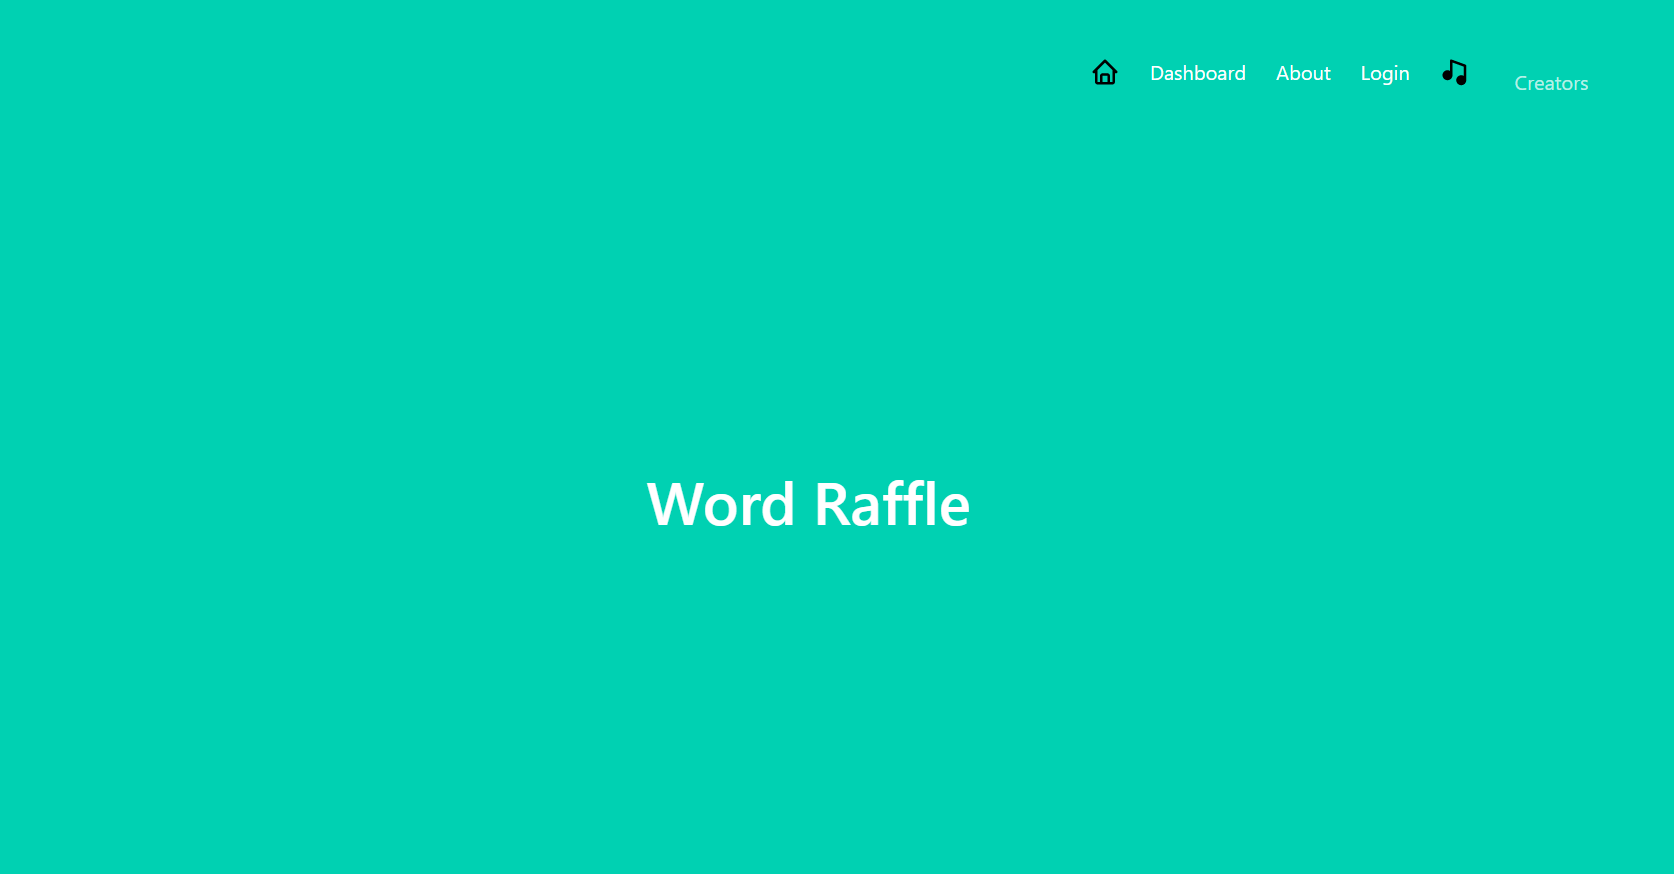
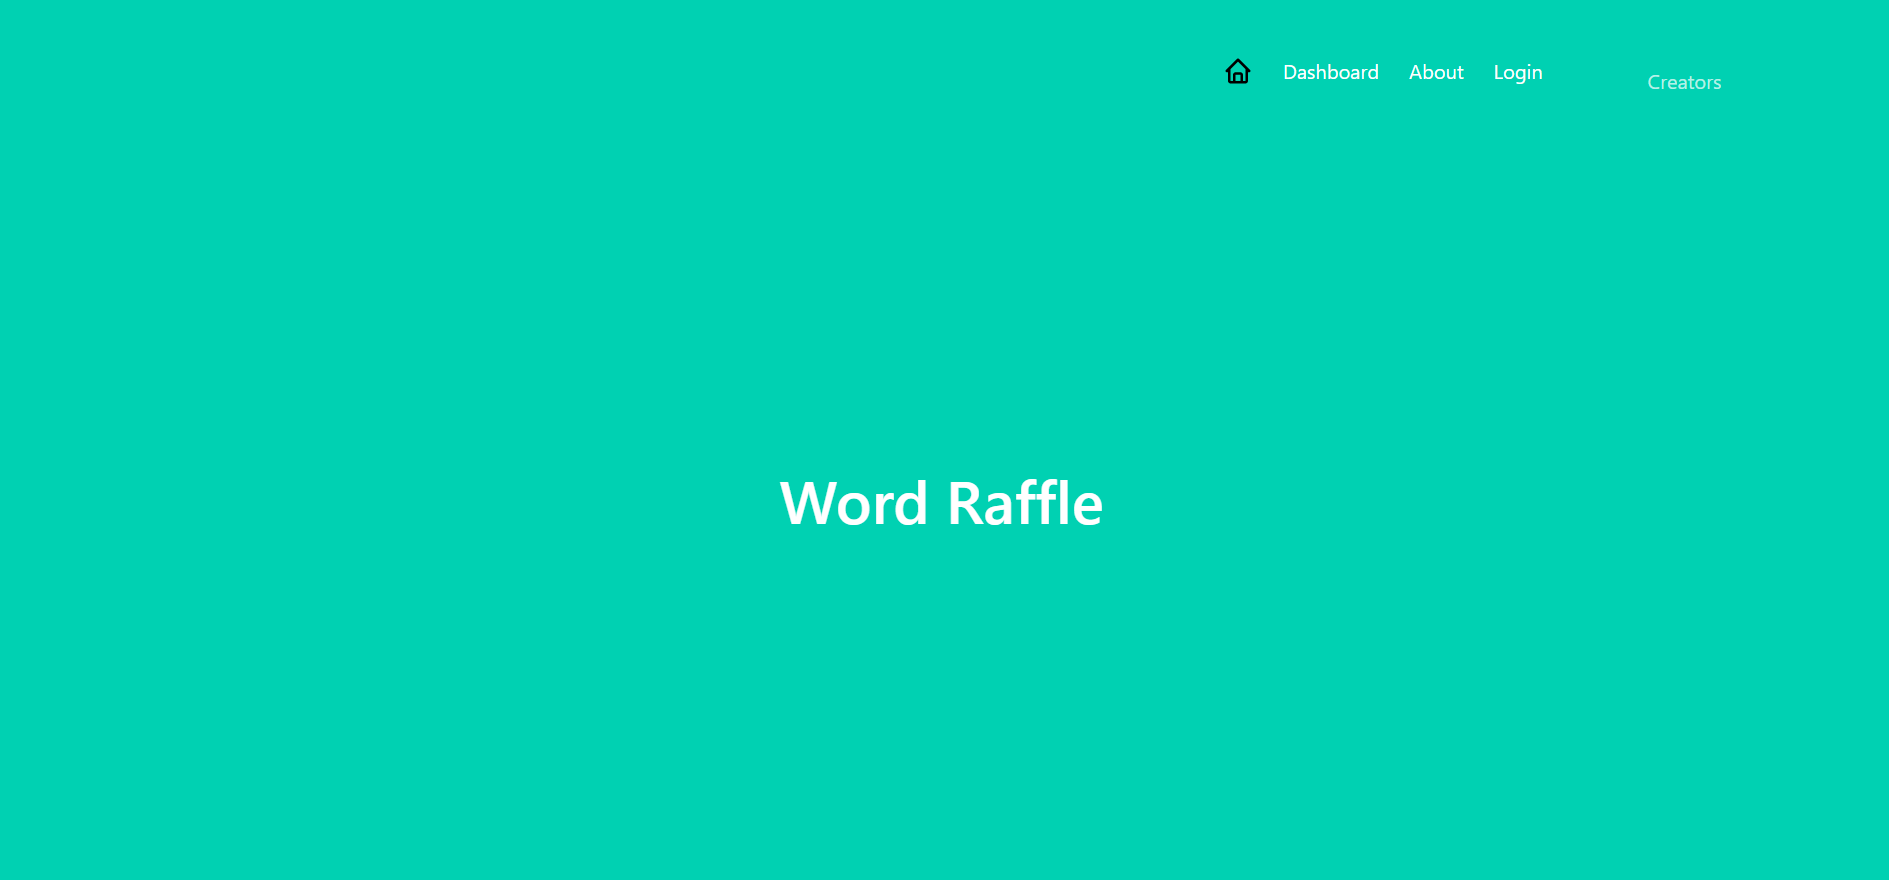
tried several different css options

Changed region(s): [[0.3728, 0.5252, 0.5902, 0.6178], [0.6523, 0.0618, 0.963, 0.1236]]

diff --git a/src/components/ProjectList/index.js b/src/components/ProjectList/index.js
@@ -1,50 +1,42 @@
-import React, { useState } from 'react';
+import React from 'react';
 import './projectList.css'
 
-const ProjectList = ({ category }) => {
-
-  // const [currentPhoto, setCurrentPhoto] = useState();
-
-  const projects = [
-    {
-      name: "Word Raffle",
-      link: 'https://calm-plains-32572.herokuapp.com/',
-      src: '/images/wordraffle.png'
-    },
-    {
-      name: "The Quiz Wize",
-      link: 'https://mackenzieabe.github.io/TheQuizWiz/',
-      src: '/images/quizwiz screenshot1.png'
-    },
-    // {
-    //     name: <a href='https://mackenzieabe.github.io/TheQuizWiz/'>The Quiz Wiz</a>
-    // },
-    // {
-    //     name: <a href='https://mackenzieabe.github.io/DoorsofDurin/'>Doors of Durin</a>
-    // },
-    // {
-    //     name: <a href='https://konopie.github.io/cat-generator/'> Cat Genie </a>
-    // }
-  ]
-
-  // const currentPhotos = photos.filter(photo => photo.category === category);
+const ProjectList = ({ cateogry }) => {
 
   return (
-    <div>
-      <div className="flex-row">
-        {projects.map((image, i) => (
-          <div key={image.name}>
-            <h1>{image.name}</h1>
-            <a href={image.link}><img
-              src={image.src}
-              alt={image.name}
-              className="img-thumbnail mx-1"
-            /></a>
-          </div>
-        ))}
+    <div className="row">
+      <div className="col-md-6 m-4">
+        <div className="thumbnail">
+          <a href="https://calm-plains-32572.herokuapp.com/">
+            <img src="/images/wordraffle.png" alt="wordraffle screenshot" style={{ width: "65%" }}></img>
+
+          </a>
+        </div>
+      </div>
+      <div className="col-md-6 m-4">
+        <div className="thumbnail">
+          <a href="https://mackenzieabe.github.io/TheQuizWiz/">
+            <img src="/images/quizwiz.png" alt="quizqiz screenshot" style={{ width: "65%" }}></img>
+
+          </a>
+        </div>
+      </div>
+      <div className="col-md-6 m-4">
+        <div className="thumbnail">
+          <a href="https://konopie.github.io/cat-generator/">
+            <img src="/images/catgenie.png" alt="cat genie screenshot" style={{ width: "65%" }}></img>
+          </a>
+        </div>
+      </div>
+      <div className="col-md-6 m-4">
+        <div className="thumbnail">
+          <a href="https://mackenzieabe.github.io/DoorsofDurin/">
+            <img src="/images/doorsofdurin.png" alt="doors of durin screenshot" style={{ width: "65%" }}></img>
+          </a>
+        </div>
       </div>
     </div>
-  );
-};
+  )
+}
 
 export default ProjectList;

diff --git a/src/components/About/index.js b/src/components/About/index.js
@@ -6,18 +6,25 @@ function About() {
     return (
 
         <section className="container-fluid my-5" >
-            {/* <h2 id="about" className="">About Me</h2> */}
+          
+            
             <div class="row">
-                <div class="col-lg-3">
-                    <img src='/images/mymug.JPG' className="my-2 rounded" style={{ width: "70%" }} alt="my face" />
-                </div>
-                <div id="about-me" className="col-lg-4 text-center font-weight-bold">
+                <div id="about-me" className="col text-center font-weight-bold">
                     <p>
-                        Hi! I'm Mackenzie, a web developer based out of Charlotte, NC. I love to learn, create and problem-solve. My interests include reading, gardening, animals and making things.</p>
+                        Hi! I'm Mackenzie, a web developer based out of Charlotte, NC. I love to learn, create and problem-solve.
+                        <br>
+                        </br>
+                        My interests include reading, gardening, animals and making things.</p>
                     <p>
+                        <br>
+                        </br>
                         You can reach me at mackenzieabe@gmail.com. Let's connect!
                     </p>
                 </div>
+                <div class="col-3">
+                    <img src='/images/mymug.JPG' id="myface" className="m-6 rounded" style={{ width: "80%" }} alt="my face" />
+                </div>
+
             </div>
         </section>
     )

diff --git a/src/components/ProjectList/projectList.css b/src/components/ProjectList/projectList.css
@@ -1,4 +1,40 @@
-.img-thumbnail {
-    width: 80%;
-    max-width: 600px;
-}
+/* body {
+    margin: 0;
+  }
+  
+  .image-grid {
+    --gap: 16px;
+    --num-cols: 4;
+    --row-height: 300px;
+  
+    box-sizing: border-box;
+    padding: var(--gap);
+  
+    display: grid;
+    grid-template-columns: repeat(var(--num-cols), 1fr);
+    grid-auto-rows: var(--row-height);
+    gap: var(--gap);
+  }
+  
+  .image-grid > img {
+    width: 100%;
+    height: 100%;
+    object-fit: cover;
+  }
+  
+  .image-grid-col-2 {
+    grid-column: span 2;
+  }
+  
+  .image-grid-row-2 {
+    grid-row: span 2;
+  }
+  
+  /* Anything udner 1024px */
+  /* @media screen and (max-width: 1024px) {
+    .image-grid {
+      --num-cols: 2;
+      --row-height: 200px;
+    }
+  }
+    */

diff --git a/src/index.css b/src/index.css
@@ -4,8 +4,7 @@ body {
   -webkit-font-smoothing: antialiased;
   -moz-osx-font-smoothing: grayscale;
   background-image: url('../public/images/background.jpg'); filter:blur(.5px);
-  
-}
+  }
 
 .row {
   padding: 40px;
@@ -31,6 +30,8 @@ code {
   font-family:'Cormorant Garamond', serif;
   color: black;
   font-weight: bold;
+  margin: 0% 20%;
+  
 }
 .navbar .navbar-nav .nav-item::after {
   position: absolute;
@@ -46,3 +47,15 @@ code {
   width: 100%;
 } 
 
+#images{
+  opacity: 1;
+  display: block;
+  width: 100%;
+  height: auto;
+  transition: .5s ease;
+  backface-visibility: hidden;
+} 
+
+#pictures:hover .image{
+  opacity: 0.3;
+}

diff --git a/public/index.html b/public/index.html
@@ -37,6 +37,7 @@
   
   <noscript>You need to enable JavaScript to run this app.</noscript>
   <div id="root"></div>
+  
   <!--
       This HTML file is a template.
       If you open it directly in the browser, you will see an empty page.
